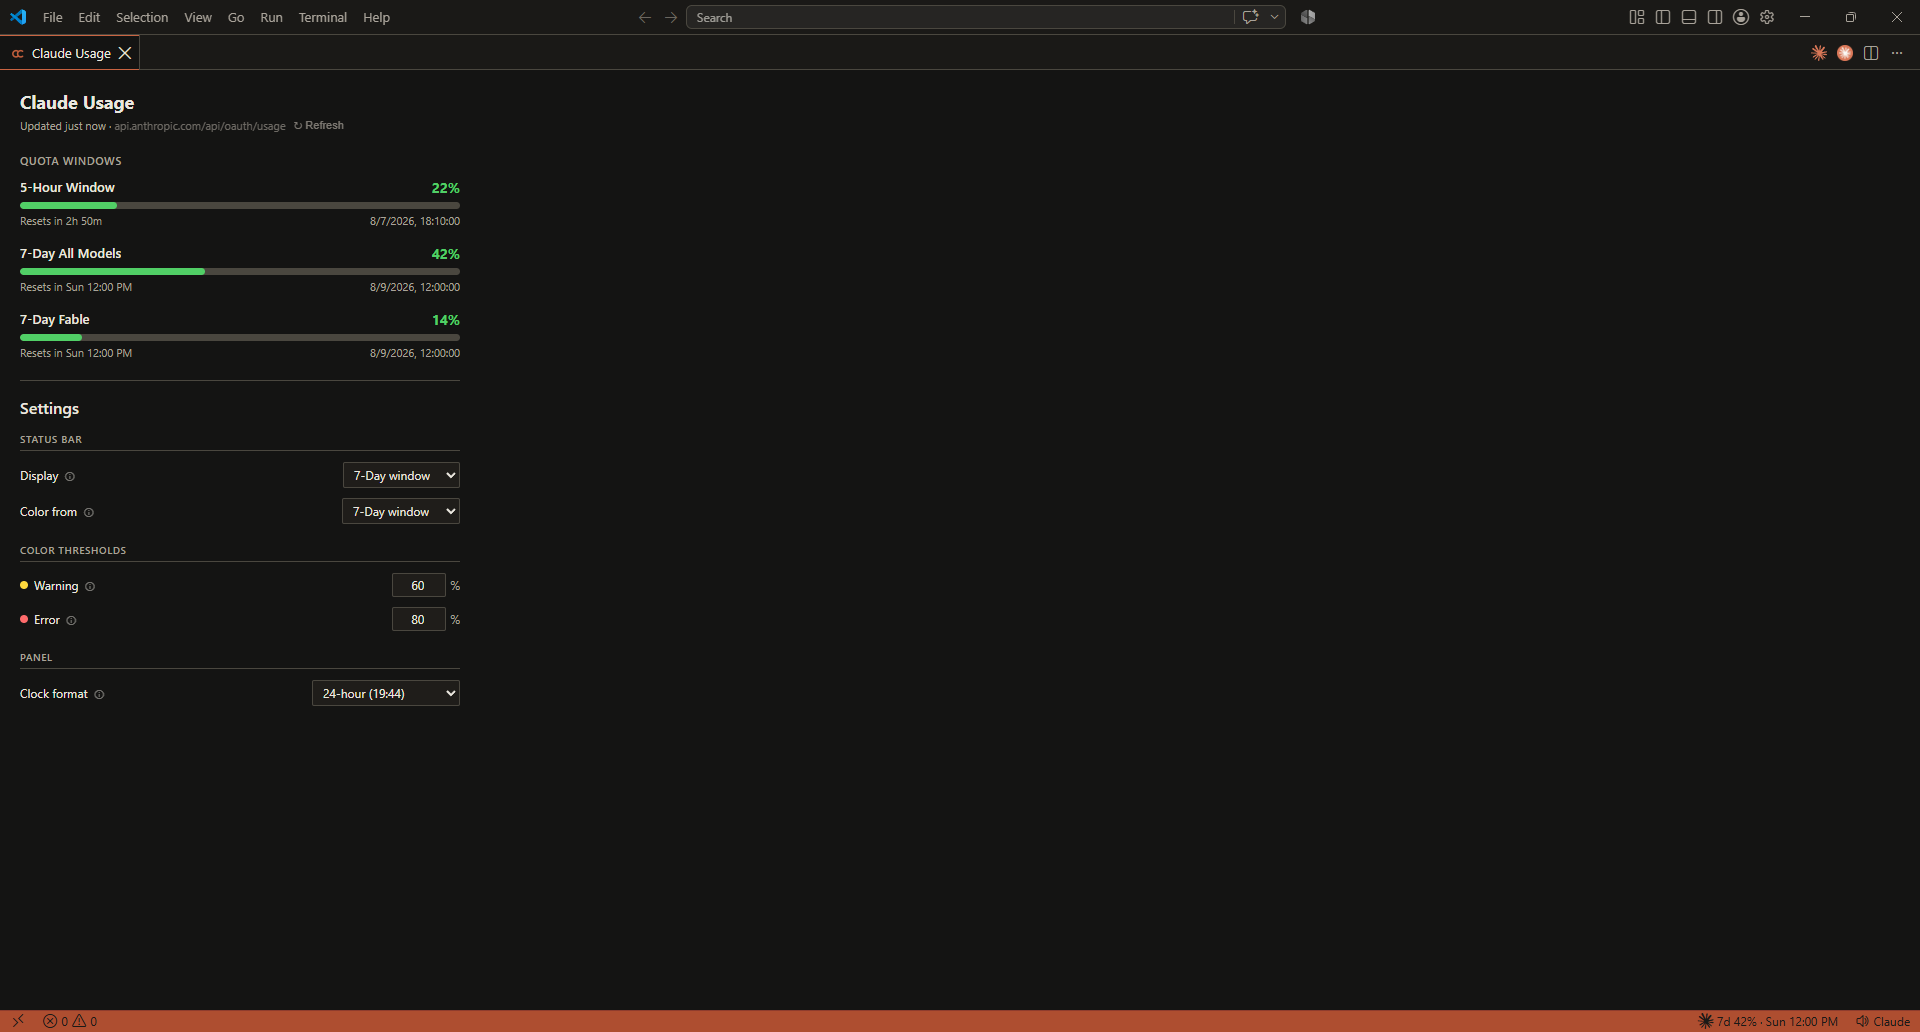
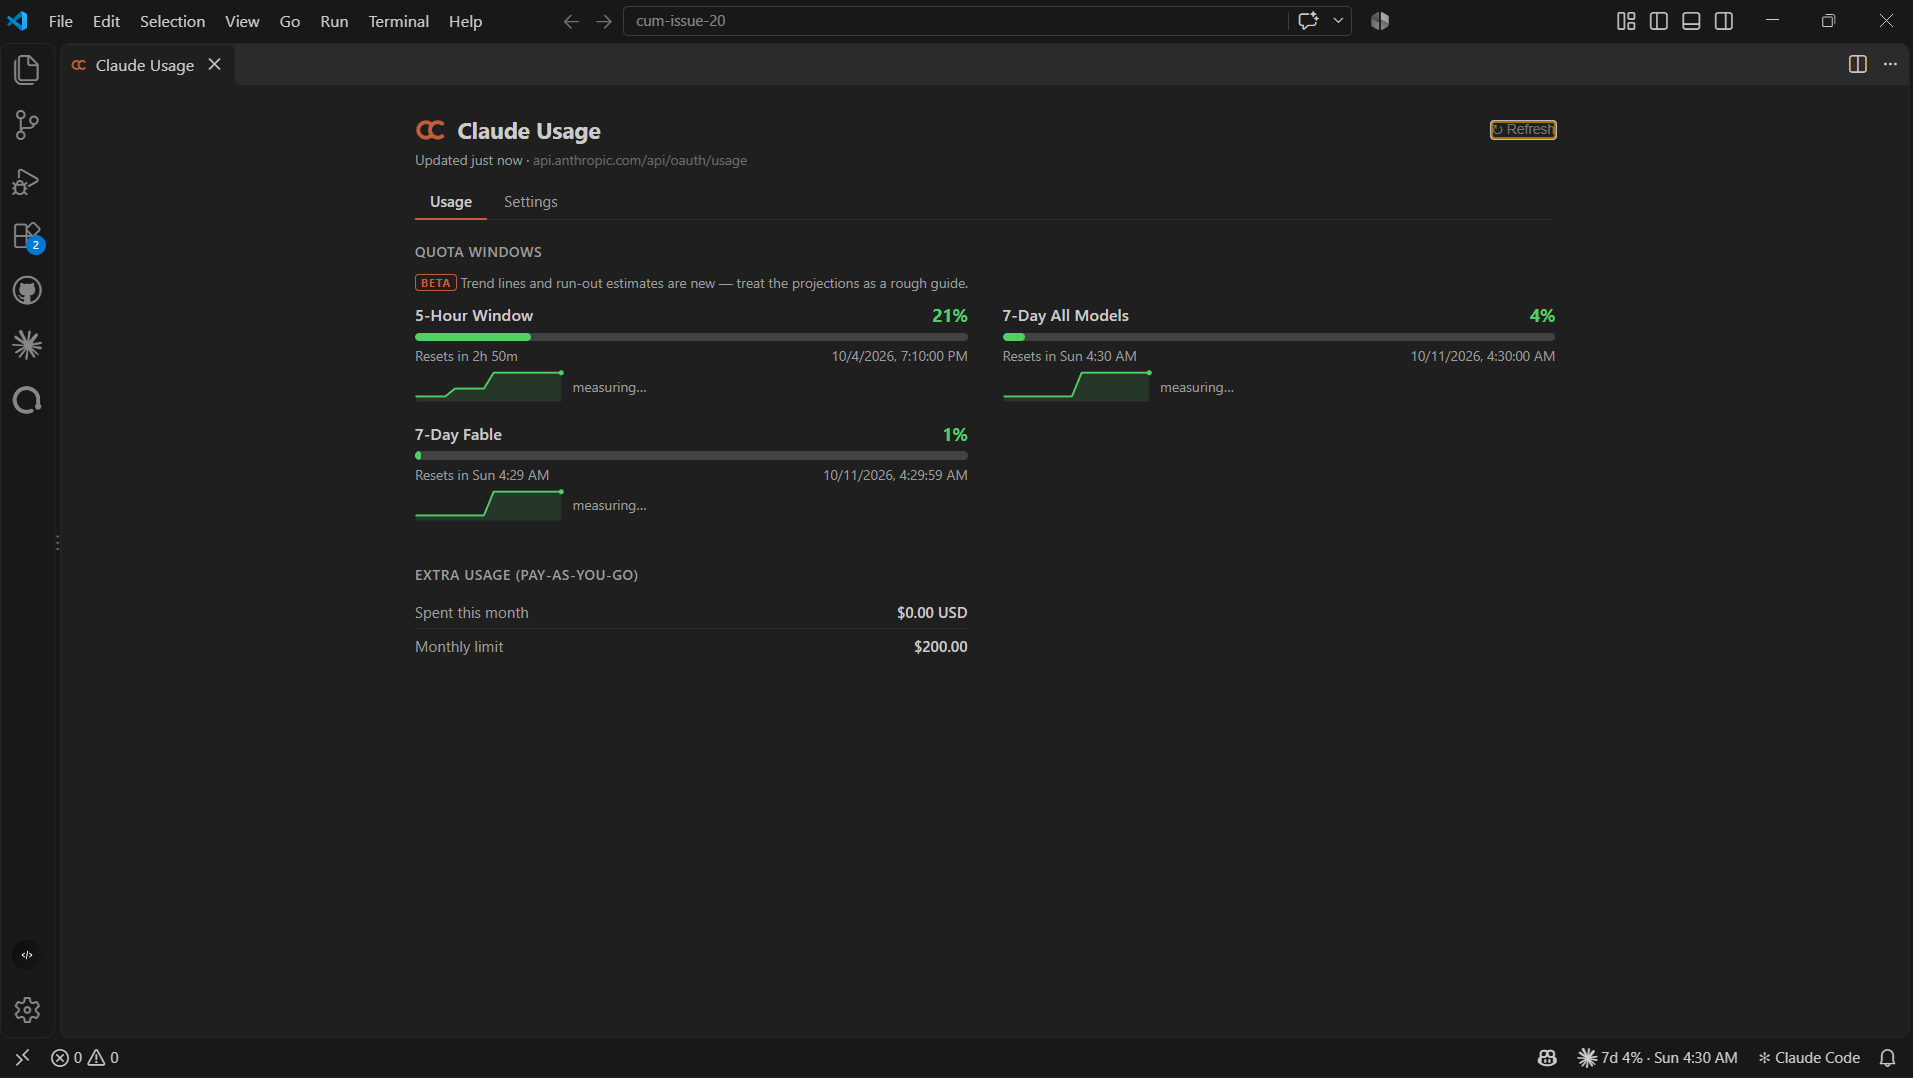
Docs: Refresh the README screenshots for 1.8.0 and add a Settings section (#25)
* Docs: Refresh the panel overview screenshot for 1.8.0

* Docs: Refresh the status bar chip screenshot

* Docs: Move the new panel screenshot to image3.png and restore image1.png

* Docs: Refresh the full-window screenshot for 1.8.0

* Docs: Use the panel screenshot with trend lines for image3

* Docs: Use the full-window screenshot with trend lines for image1

* Docs: Add a Settings section with a screenshot of the Settings tab

diff --git a/README.md b/README.md
@@ -127,6 +127,18 @@ Click the status bar item (or run **Claude: Show Usage** from the Command Palett
 - **Per-model weekly windows** — one bar per model limit the API reports (e.g. **7-Day Fable**), parsed generically so new model tiers show up automatically
 - **Extra Usage** — pay-as-you-go credits spent this month (when enabled)
 
+## Settings
+
+![Settings tab](resources/image4.png)
+
+Everything is configurable from the panel's **Settings** tab — no `settings.json` editing needed, though every control maps to a `claude-usage-monitor.*` setting if you prefer that.
+
+- **Status bar** — display presets (5-hour, 7-day, both, worst window, per model, extra usage), the raw format template, and a live preview of the result. See [Customising the text](#customising-the-text).
+- **Status bar indicator** — background, tinted text, emoji or none, with colour pickers for the theme's warning/error tokens. See [Choosing the indicator](#choosing-the-indicator).
+- **Blocked by** — a checkbox per window that may take over the status bar when it hits 100%. See [When a window runs out](#when-a-window-runs-out).
+- **Thresholds** — the warning and error percentages (default 60 / 80).
+- **Panel** — burn-rate tracking, clock format, reset display (countdown, clock time or both) and the refresh interval.
+
 ## Commands
 
 | Command | Description |
